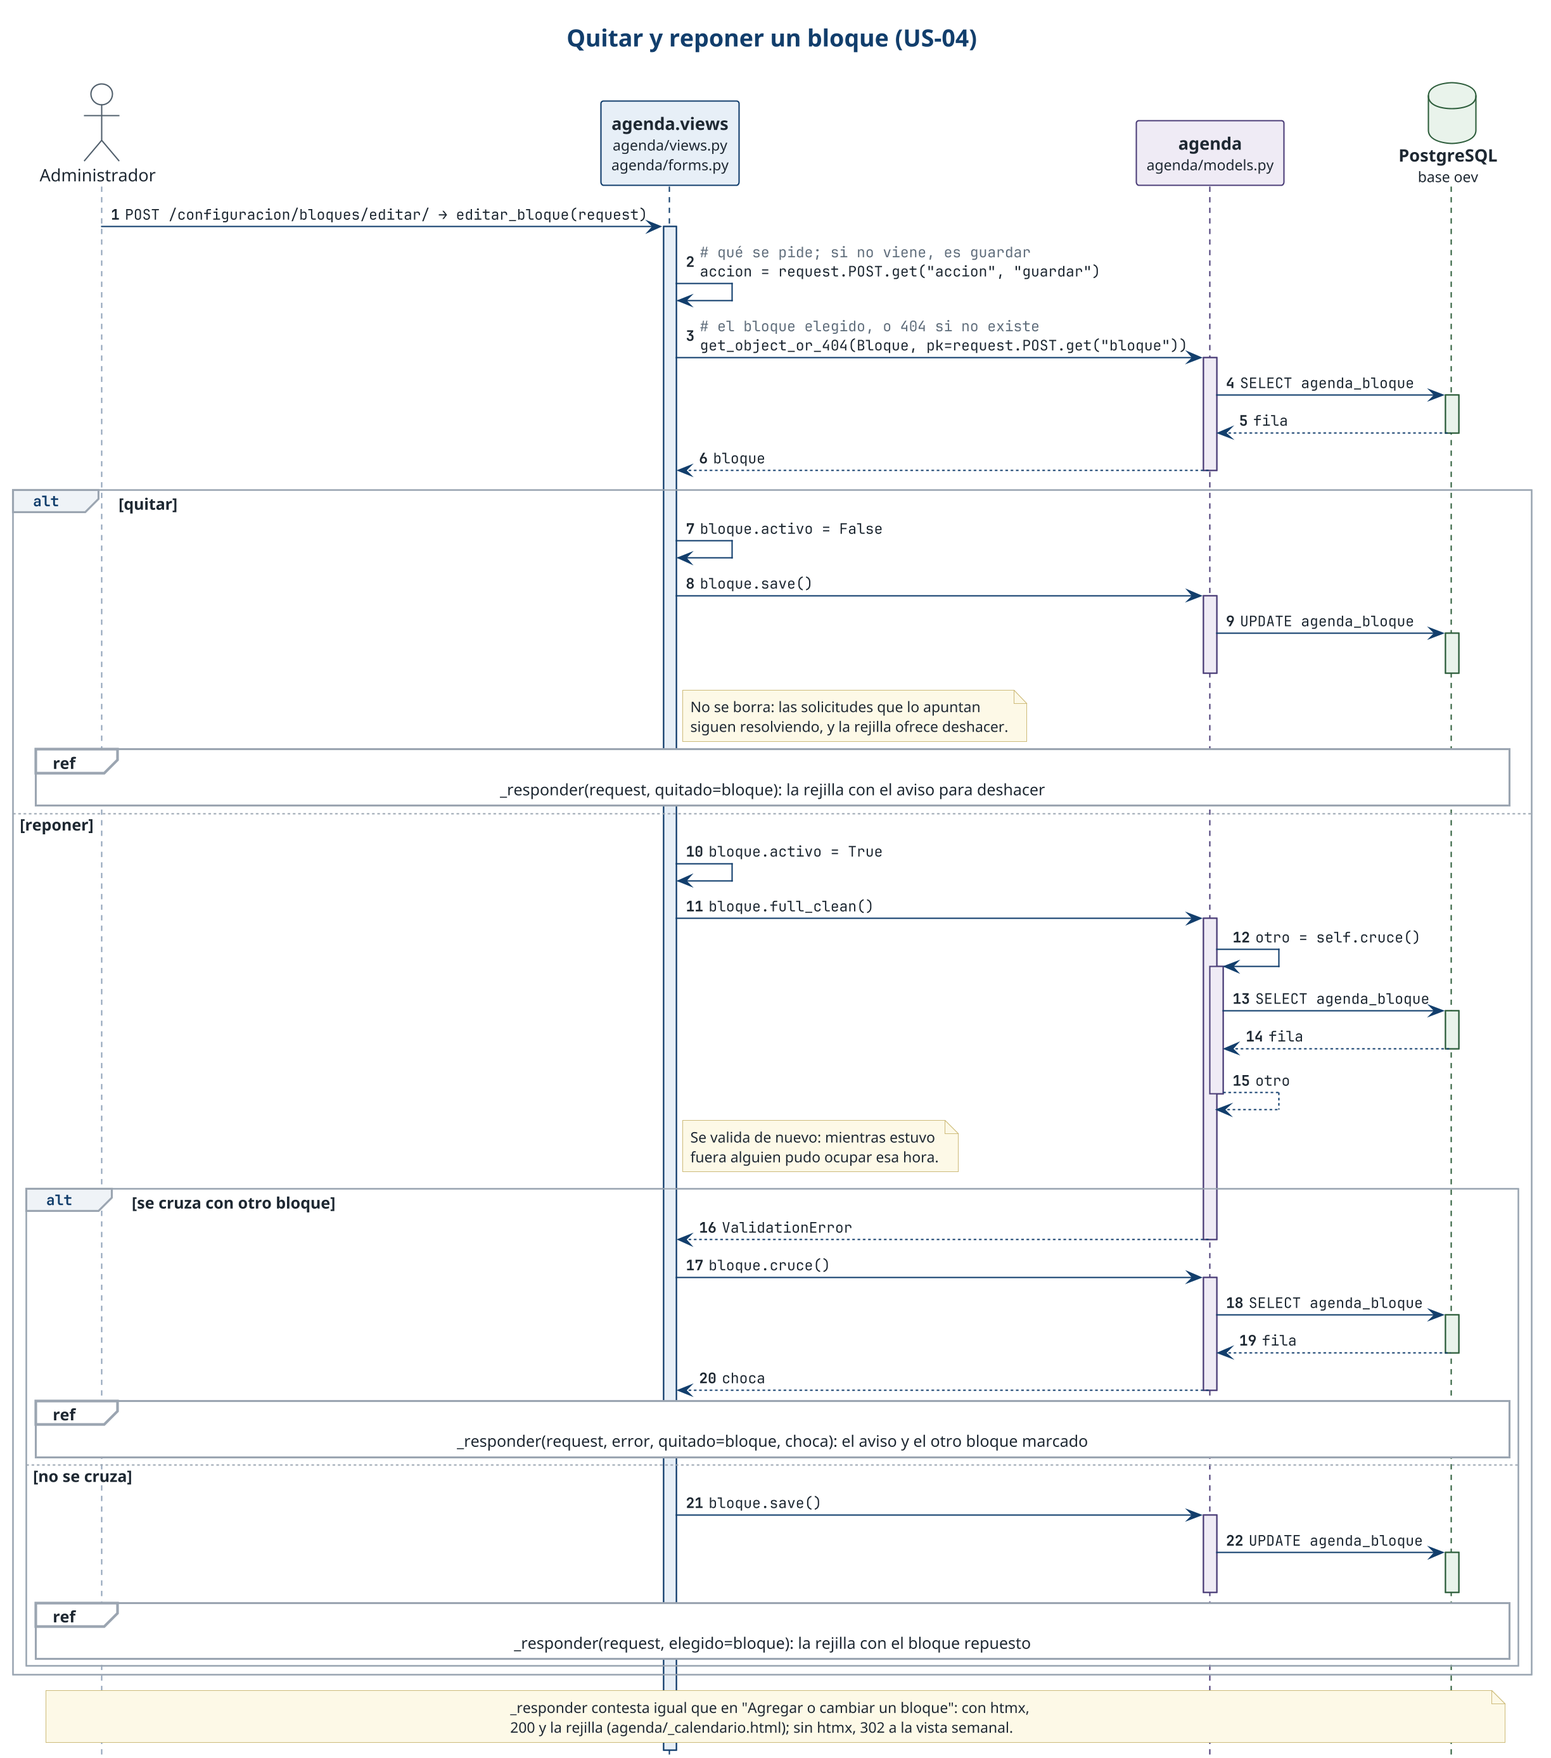
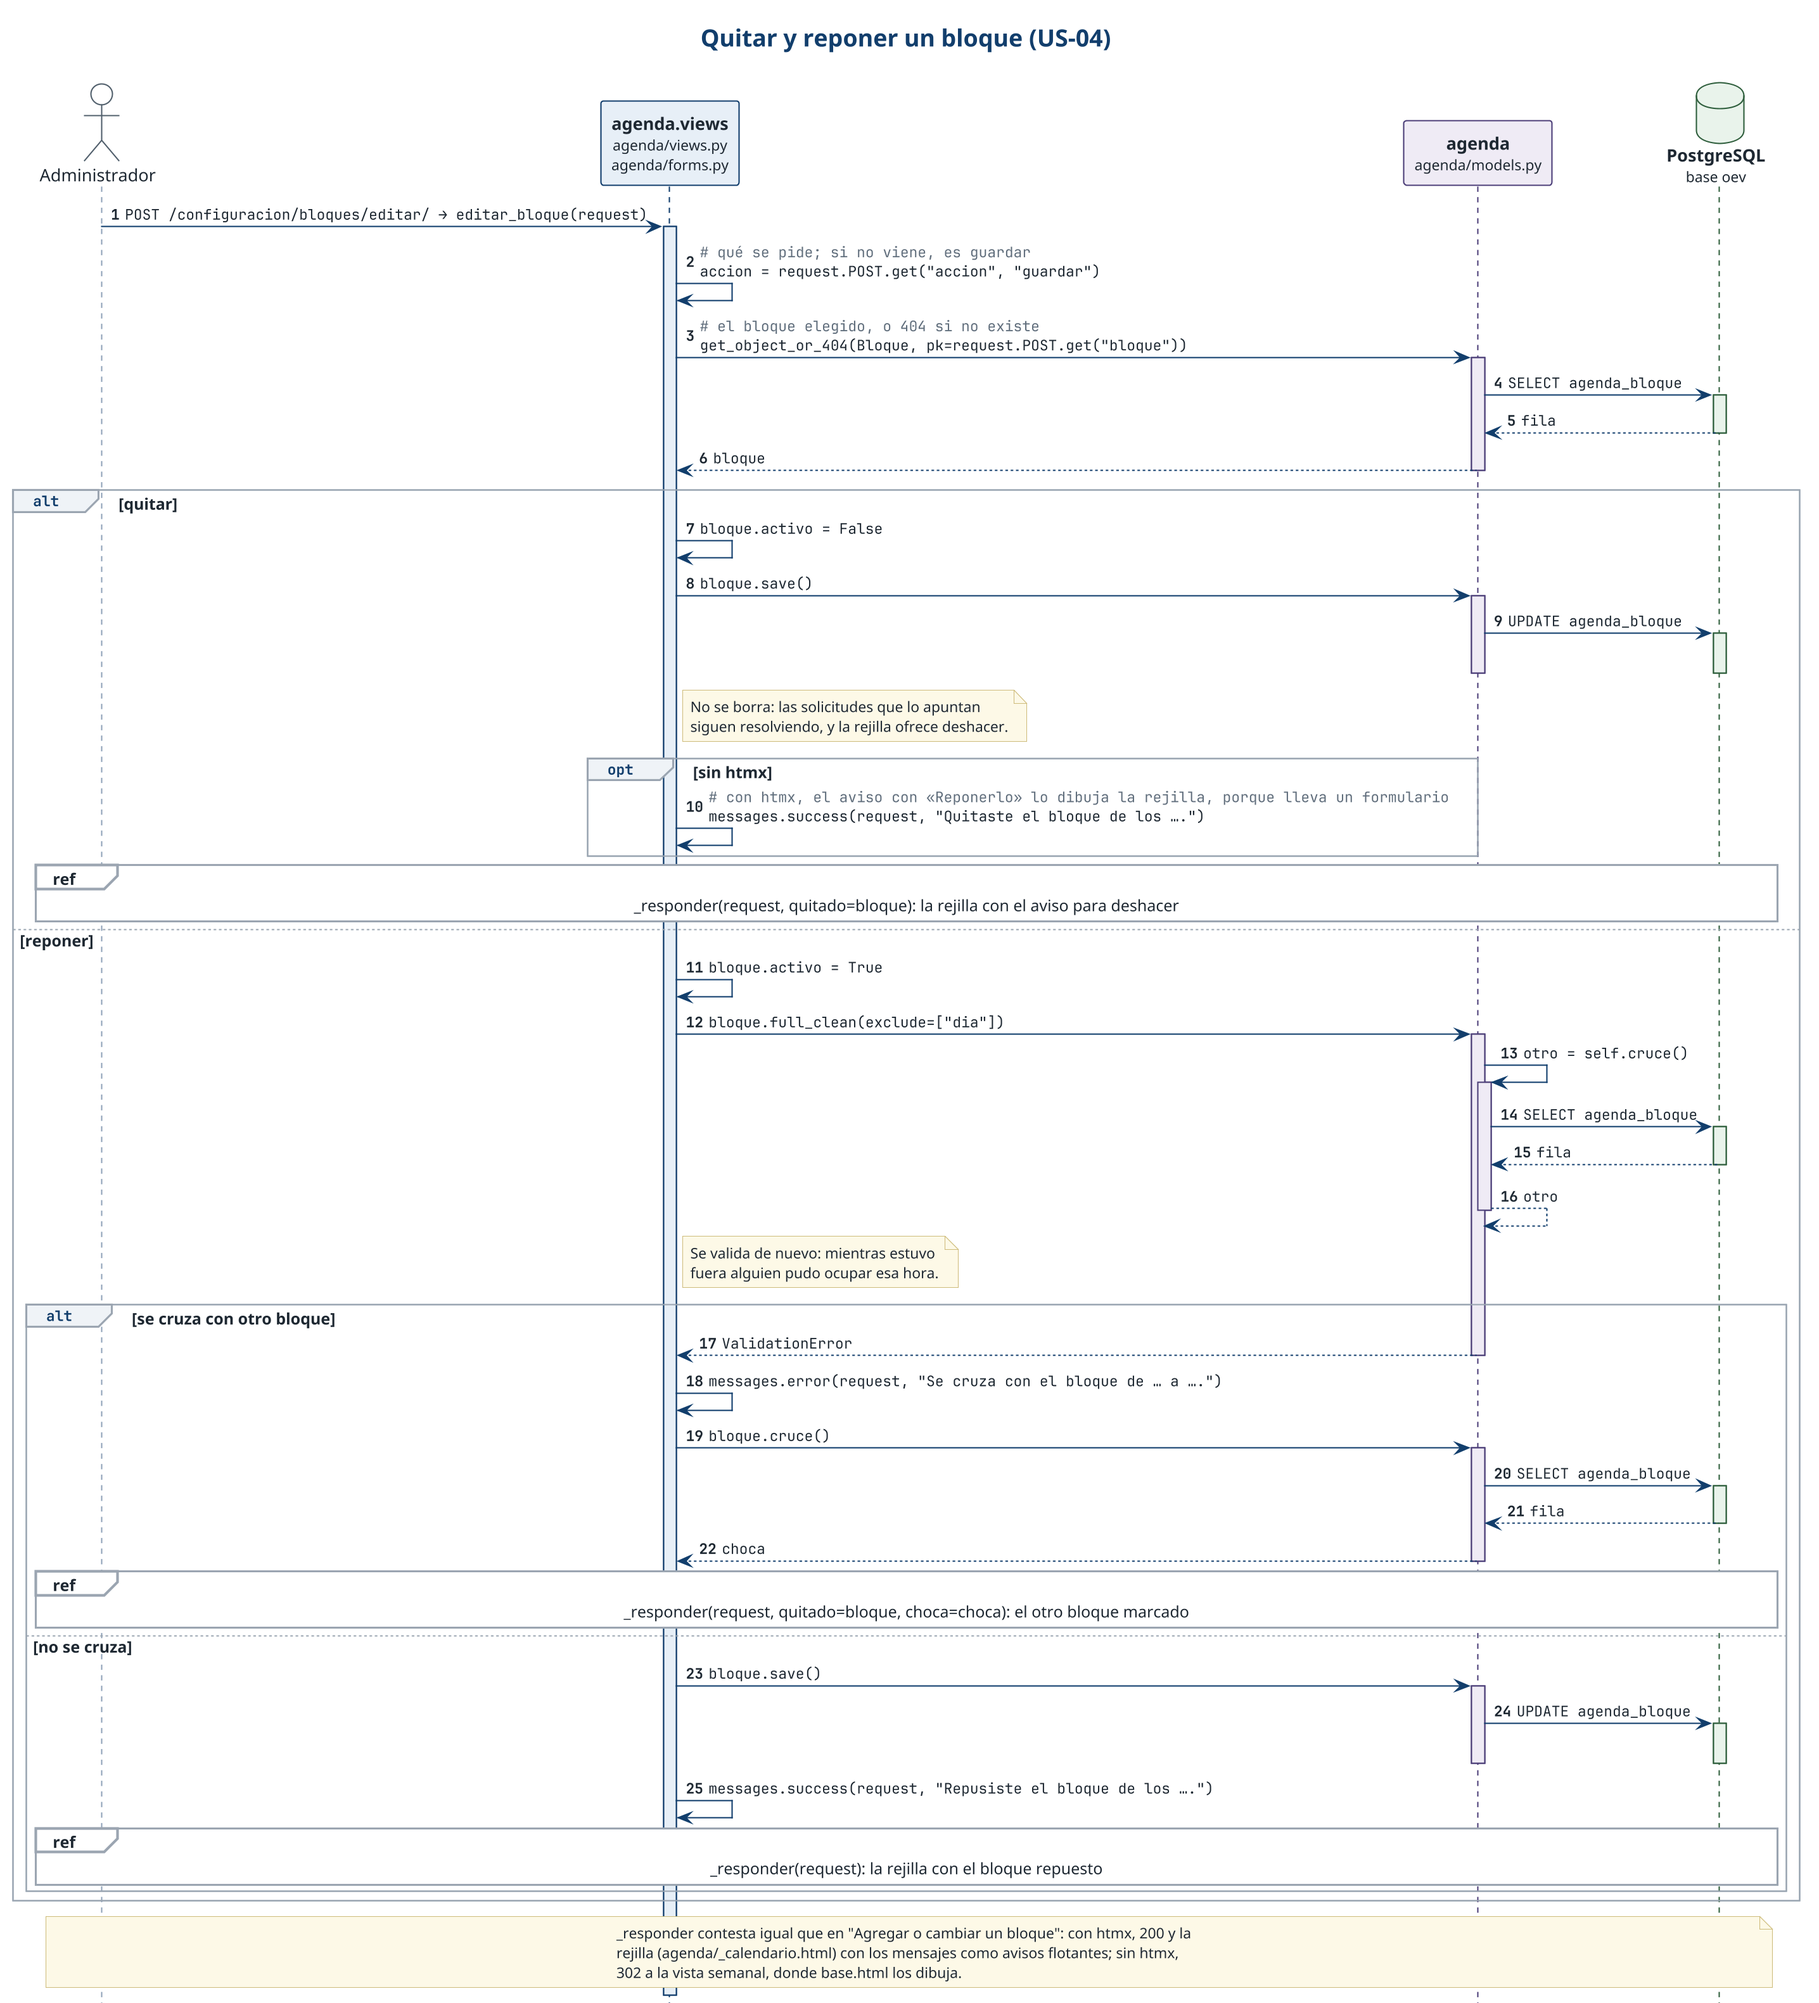
docs(diagramas): poner al día las secuencias de US-04, US-07, US-09 y US-17
Quedaron atrás con la agenda del validador y los avisos flotantes (#34). Además, US-08 con sus retornos reales y bloquear.png sin cortar.

diff --git a/docs/diagramas.md b/docs/diagramas.md
@@ -171,19 +171,21 @@ así que las consultas de validación de cada bloque se hacen dos veces.
 
 ### Abrir el panel del validador (US-07)
 
-`validacion.cargar()` lee las solicitudes pendientes desde hoy que tienen
-bloques, con un número fijo de consultas: las solicitudes con su área y
-solicitante, y después sus bloques y acompañantes en dos consultas para todas.
-Devuelve la forma que espera la plantilla, que no sabe de modelos. La pestaña
-Validación del administrador es la misma vista con otro envoltorio:
-`panel_validacion_admin` incluye `_validacion.html` dentro de `panel.html`.
+El panel es la Jornada semanal de Configuración con quién pide cada bloque
+adentro. `validacion.cargar()` lee, con un número fijo de consultas, lo que esa
+agenda dibuja: las pendientes desde hoy que tienen bloques, las ya aceptadas de
+esas semanas, lo resuelto hoy por cualquier validador (AC5), la jornada con los
+bloques quitados y los bloqueos (US-17). Devuelve la forma que espera la
+plantilla, que no sabe de modelos. La pestaña Validación del administrador es la
+misma vista con otro envoltorio: `panel_validacion_admin` incluye
+`_validacion.html` dentro de `panel.html`.
 
 ![Abrir el panel del validador](diagramas/us-07/ver-panel.png)
 
 El resto ocurre en el navegador. `panelValidador`, el componente de Alpine de
-`_validacion.html`, parte cada solicitud en pedidos (un bloque en una fecha) y
-de ahí arma los topes, ordenados por prioridad del área, y las tarjetas sin
-tope.
+`_validacion.html`, arma cada día de la semana con sus bloques y, en cada uno,
+las solicitudes que lo piden, ordenadas por prioridad del área (AC2). Un bloque
+quitado de la jornada se dibuja solo si esa fecha todavía tiene algo.
 
 ### Resolver una solicitud con tope (US-07)
 
@@ -210,8 +212,10 @@ para armar el enlace completo; sin ellos, el correo sale sin enlace.
 ### Resolver una solicitud sin tope (US-07)
 
 Sin rivales, aprobar no pide motivo. Rechazar sí, y se confirma en la misma
-tarjeta, donde sale también el aviso si falta. Si otro validador ya la resolvió o el solicitante la retiró, el
-servidor lo dice y el panel lo muestra.
+ficha, donde sale también el aviso si falta. Si otro validador ya la resolvió o
+el solicitante la retiró, el servidor lo dice y el panel lo muestra. Lo que la
+pantalla revisa antes de enviar (motivo, bloqueo, bloque quitado) es para avisar
+rápido: el servidor lo vuelve a revisar.
 
 ![Resolver una solicitud sin tope](diagramas/us-07/resolver-sin-tope.png)
 
@@ -238,9 +242,8 @@ crea con los valores del cliente si todavía no existe (AC2).
 
 ![Ver los parámetros y los últimos cambios](diagramas/us-04/ver-reglas.png)
 
-`?guardados=` llega por la barra de direcciones, así que `_guardados` acepta
-solo un número: con él la página dice cuántos cambios quedaron, y con 0, que no
-había nada que cambiar.
+Cuántos cambios quedaron, o que no había nada que cambiar, llega como mensaje
+de Django en la sesión, y `base.html` lo dibuja como aviso flotante.
 
 ### Editar la plantilla semanal de bloques (US-04)
 
@@ -256,8 +259,9 @@ día fuera de lunes a viernes no llega al formulario: la vista contesta 400.
 Cada respuesta es la rejilla completa: htmx reemplaza `#calendario` entero y
 Alpine arranca de nuevo sobre el fragmento. Sin htmx el formulario se envía
 normal y `_responder` contesta con una redirección a
-`/configuracion/bloques/?vista=semana&desde=…`. Ese camino no lleva el aviso ni
-el bloque elegido.
+`/configuracion/bloques/?vista=semana&desde=…`. Ese camino no lleva el bloque
+elegido, y el error, que con htmx va dentro del pop-up, llega como aviso
+flotante.
 
 ![Quitar y reponer un bloque](diagramas/us-04/bloque-quitar.png)
 
@@ -315,8 +319,8 @@ la petición sale solo si se confirma. El retiro es un único `UPDATE`
 condicionado a que la solicitud siga pendiente y sea del usuario, para no pisar
 al validador si decide en el mismo instante. Si no aplica, el mensaje es el
 mismo sea ajena, inexistente o ya revisada. Con htmx vuelve la tabla en la misma
-pestaña y página, con el mensaje dentro. Sin htmx, la vuelta es por redirección
-al historial.
+pestaña y página, y el mensaje llega fuera de banda como aviso flotante. Sin
+htmx, la vuelta es por redirección al historial.
 
 ### Confirmar la asistencia (US-03)
 
@@ -407,8 +411,8 @@ registro del primero.
 ### Ver una semana con sus bloqueos (US-17)
 
 La vista semanal tiene fechas porque desde ahí se bloquea un bloque en una
-fecha, pero lo que se edita sigue siendo la jornada que se repite: un aviso fijo
-lo dice. Cada columna raya los bloques que algún bloqueo deja fuera en su fecha,
+fecha, pero lo que se edita sigue siendo la jornada que se repite: lo dice el
+pop-up de cada bloque. Cada columna raya los bloques que algún bloqueo deja fuera en su fecha,
 con la misma regla `cubre()` que usa el resto del sistema.
 
 ![Ver una semana con sus bloqueos](diagramas/us-17/ver-semana.png)
